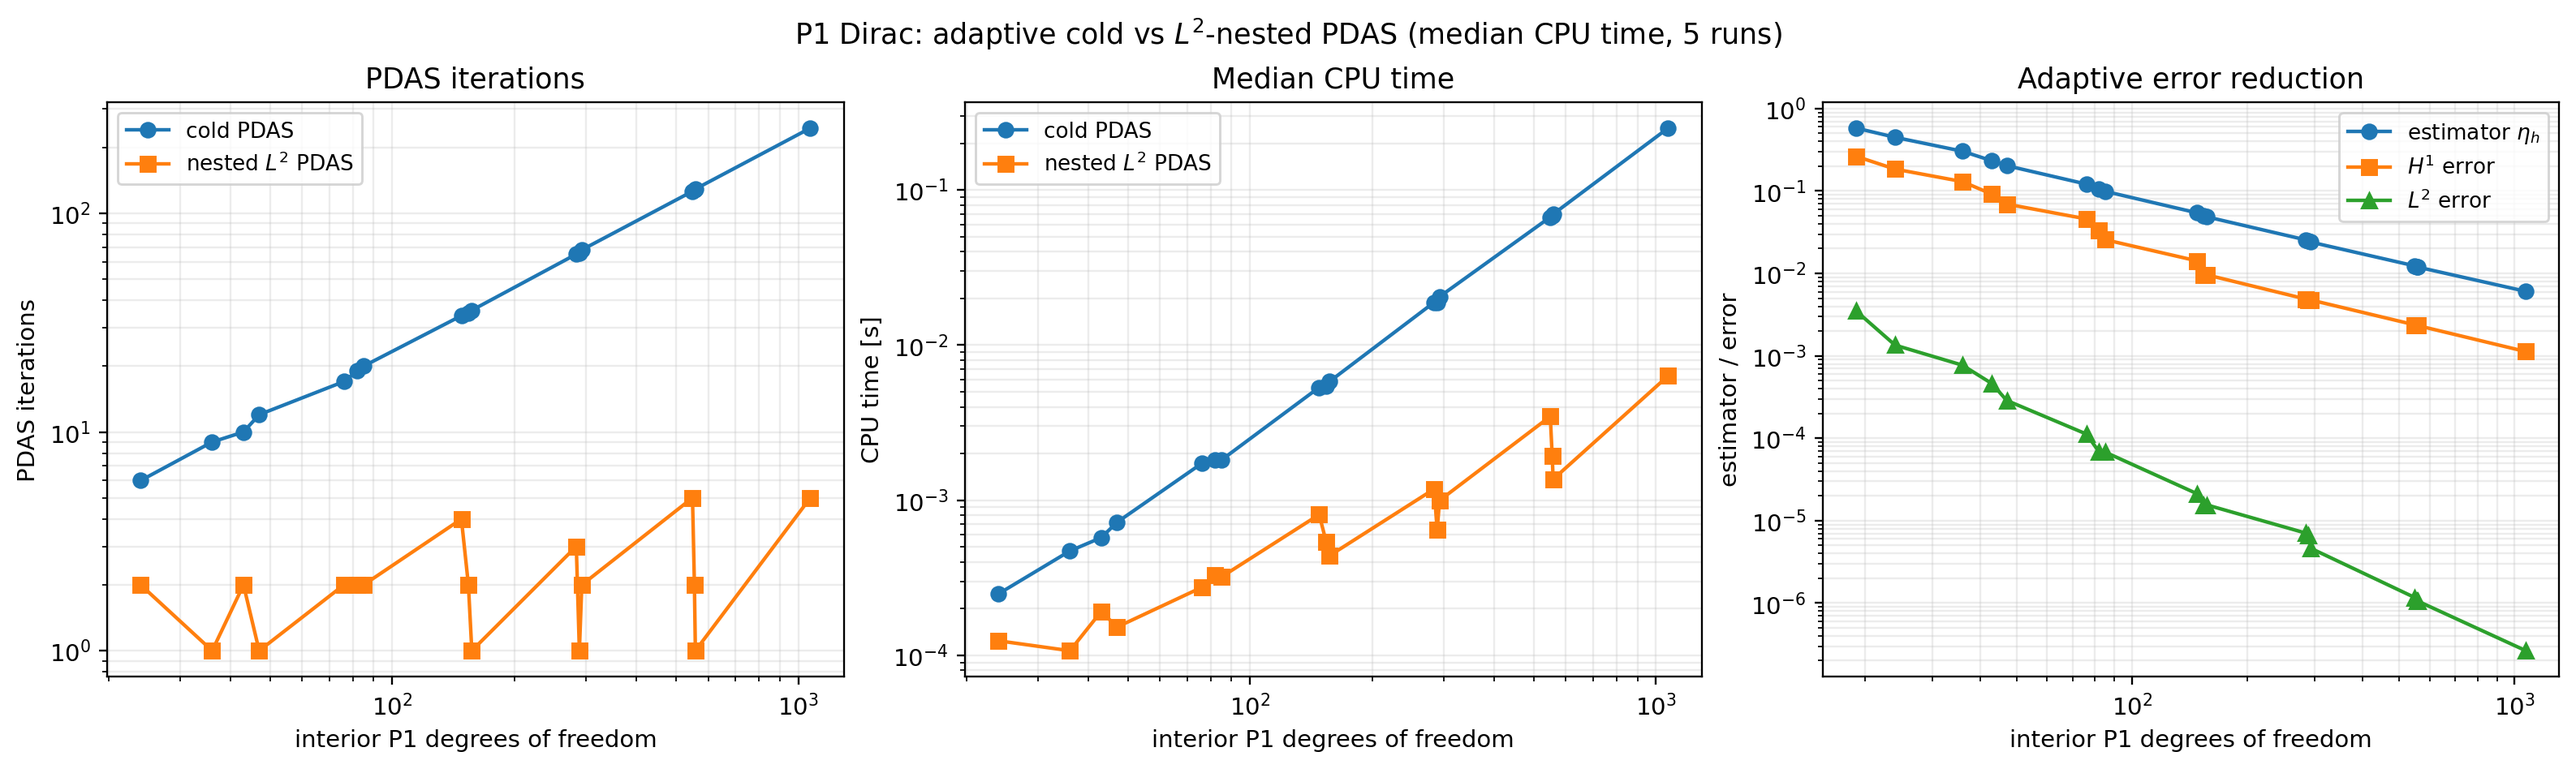
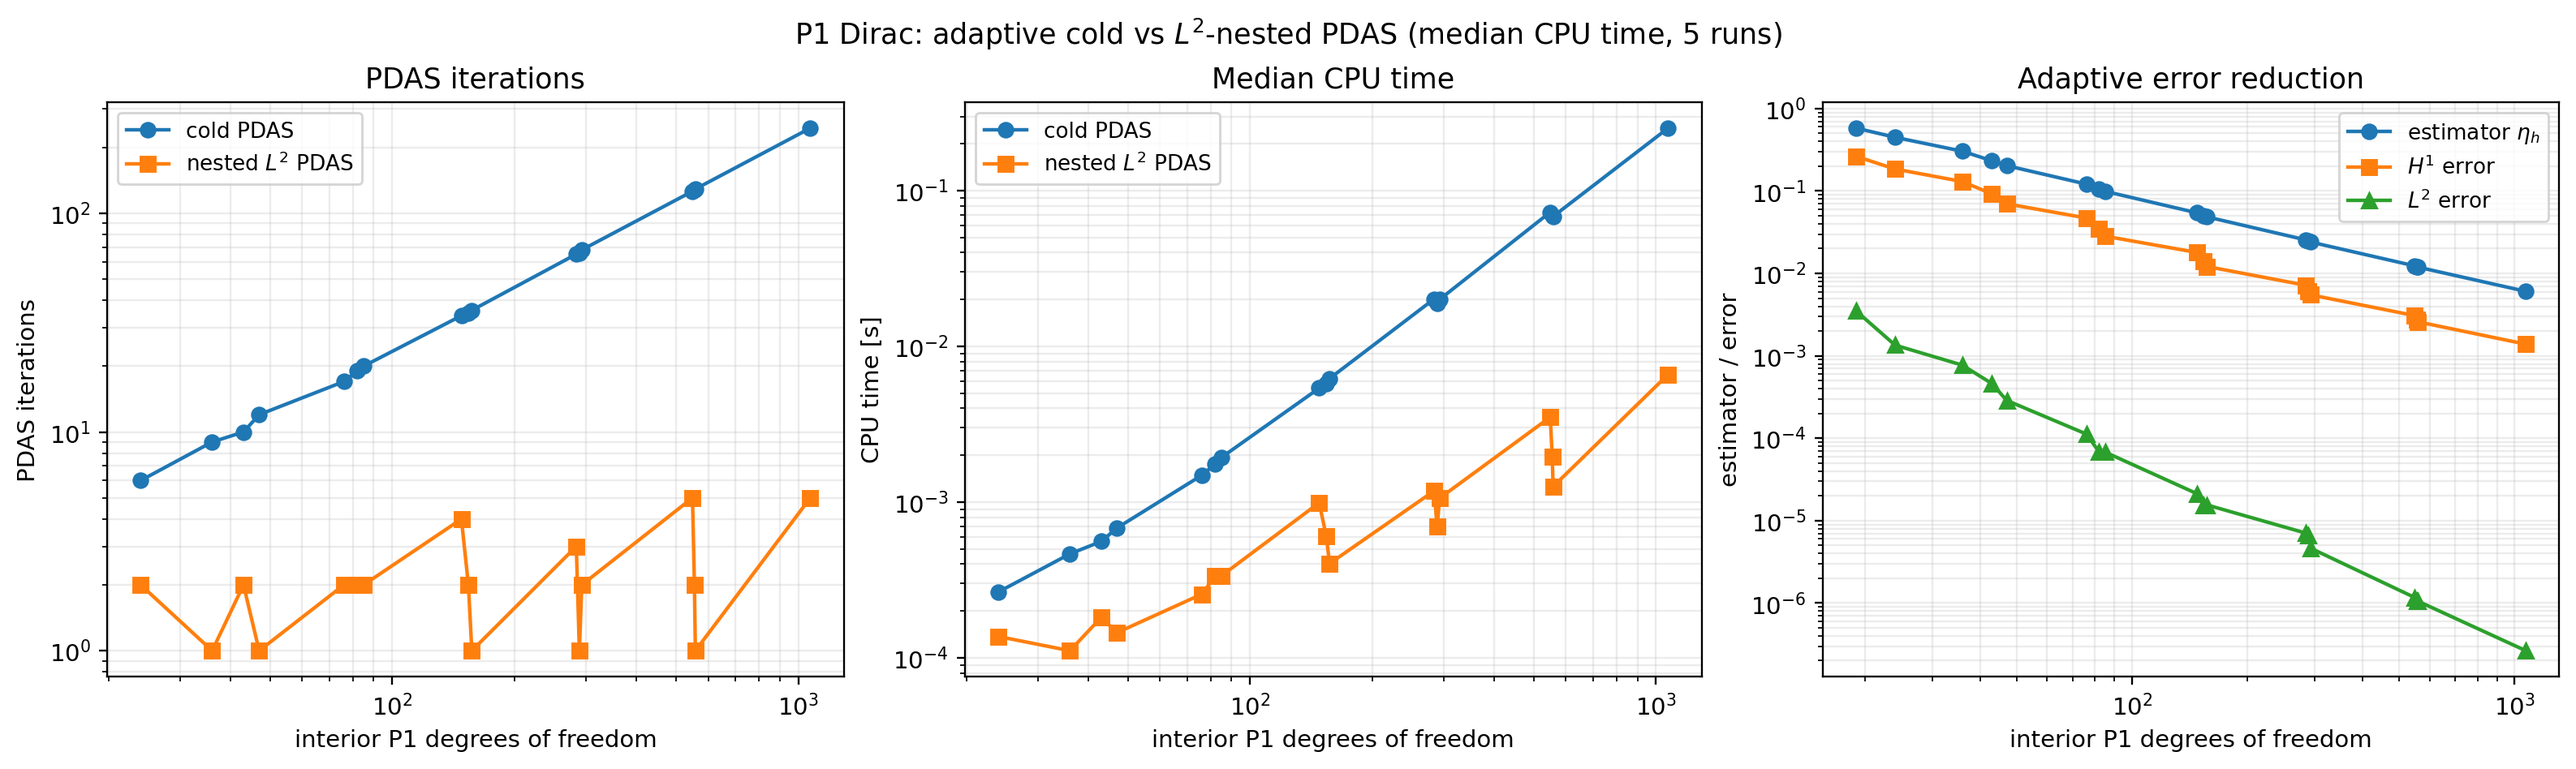
Standardize Dirac FEM error evaluation using elementwise Gauss quadrature

diff --git a/experiments/dirac_example.py b/experiments/dirac_example.py
@@ -221,89 +221,29 @@ def exact_derivative_dirac(x):
     return du
 
 
-def compute_errors(
-    nodes,
-    U,
-):
-    x = np.linspace(
-        0.0,
-        1.0,
-        20001,
+
+def compute_errors(nodes, U):
+    """P1 Dirac L2 and H1 errors using elementwise Gauss quadrature.
+
+    The existing P1/P2 Dirac routine uses 12 Gauss points
+    and splits elements at alpha, gamma and beta.
+    """
+    from experiments.p1_p2_dirac_comparison import (
+        compute_errors as compute_gauss_errors,
     )
 
-    uh = interpolate_fem_solution(
+    from src.fem import (
+        evaluate_fem_solution,
+        evaluate_fem_derivative,
+    )
+
+    return compute_gauss_errors(
         nodes,
         U,
-        x,
+        evaluate_fem_solution,
+        evaluate_fem_derivative,
     )
 
-    u = exact_solution_dirac(x)
-
-    l2_error = np.sqrt(
-        np.trapz(
-            (uh - u) ** 2,
-            x,
-        )
-    )
-
-    h1_squared = 0.0
-
-    for element in range(
-        len(nodes) - 1
-    ):
-        a = nodes[element]
-        b = nodes[element + 1]
-
-        mask = (
-            (x >= a)
-            & (x <= b)
-        )
-
-        x_local = x[mask]
-
-        if len(x_local) < 2:
-            continue
-
-        if element == 0:
-            u_left = 0.0
-        else:
-            u_left = U[
-                element - 1
-            ]
-
-        if (
-            element
-            == len(nodes) - 2
-        ):
-            u_right = 0.0
-        else:
-            u_right = U[element]
-
-        uh_derivative = (
-            u_right - u_left
-        ) / (b - a)
-
-        exact_derivative = (
-            exact_derivative_dirac(
-                x_local
-            )
-        )
-
-        h1_squared += np.trapz(
-            (
-                uh_derivative
-                - exact_derivative
-            )
-            ** 2,
-            x_local,
-        )
-
-    return (
-        float(l2_error),
-        float(
-            np.sqrt(h1_squared)
-        ),
-    )
 
 
 def main():
